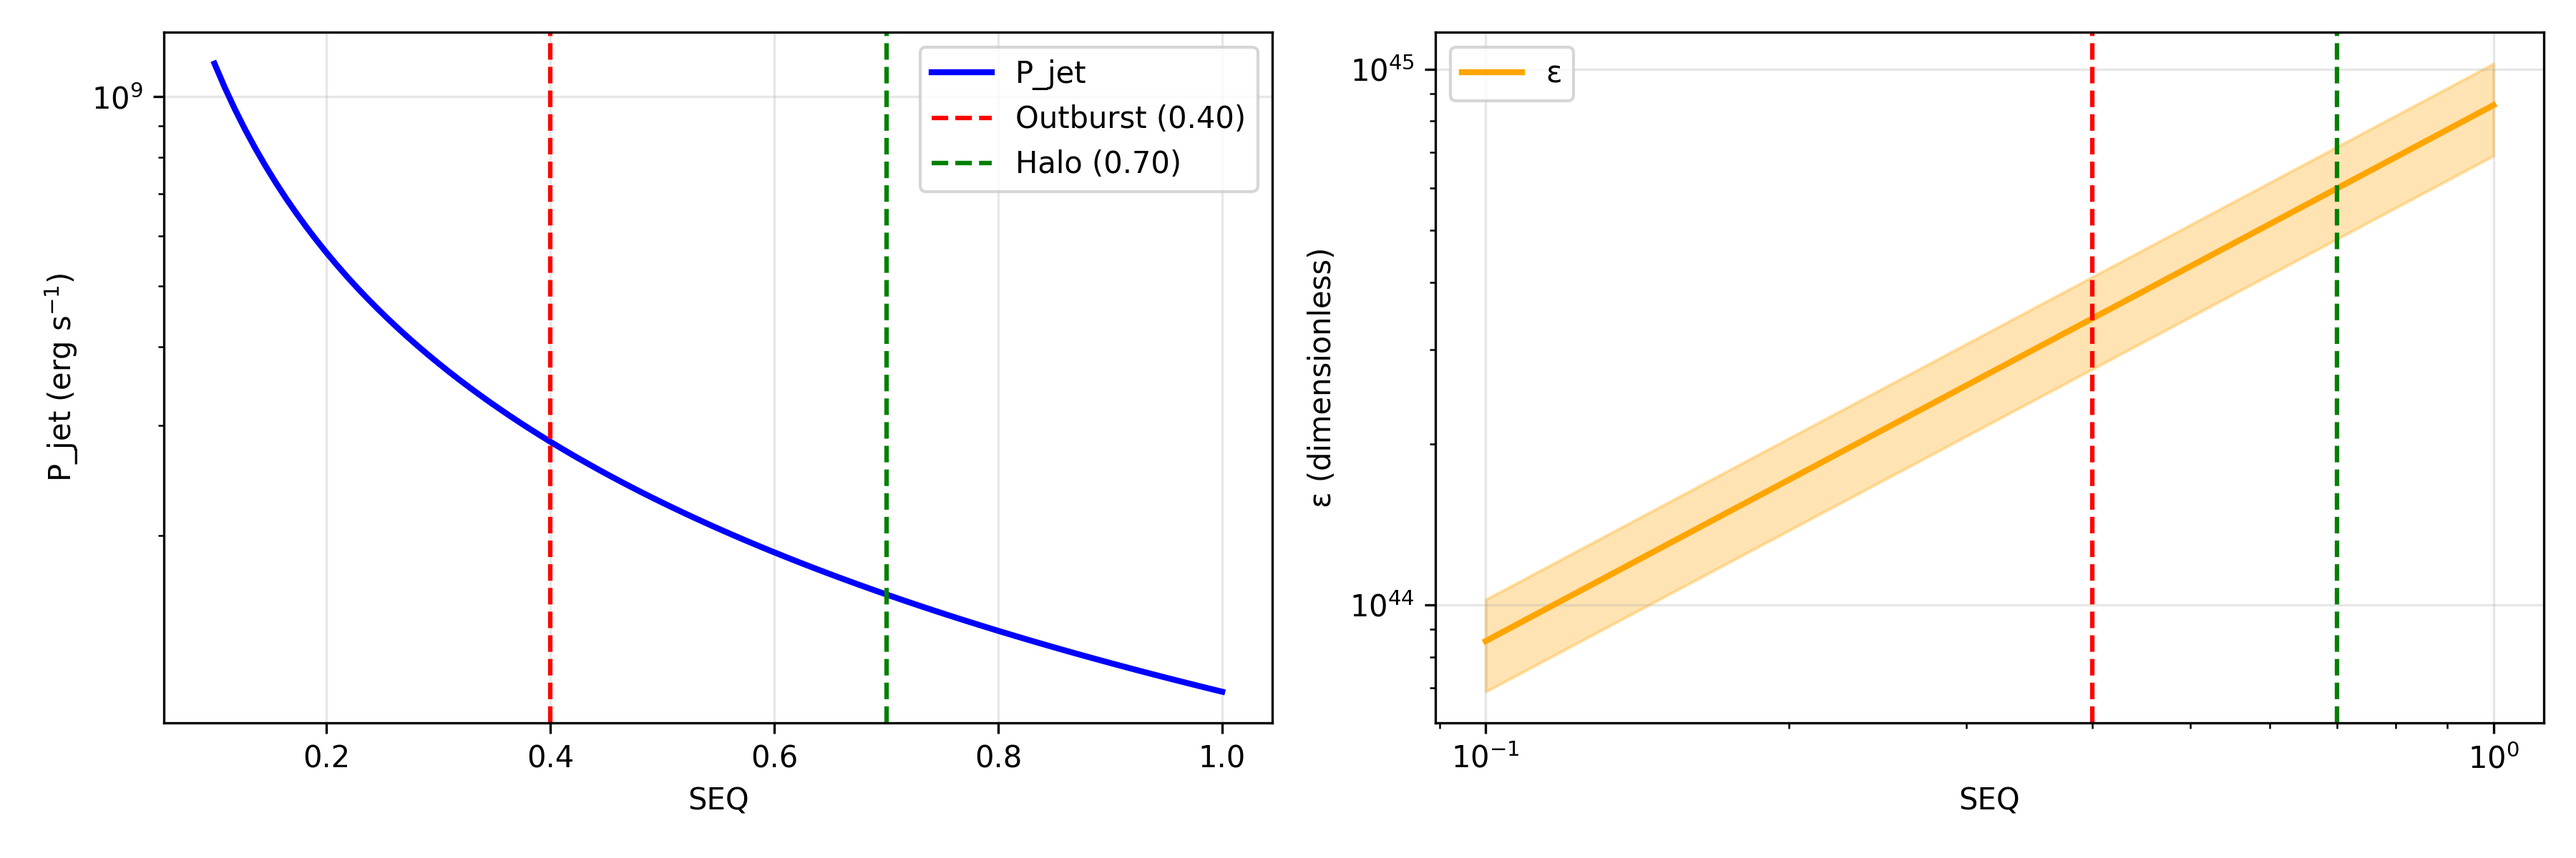
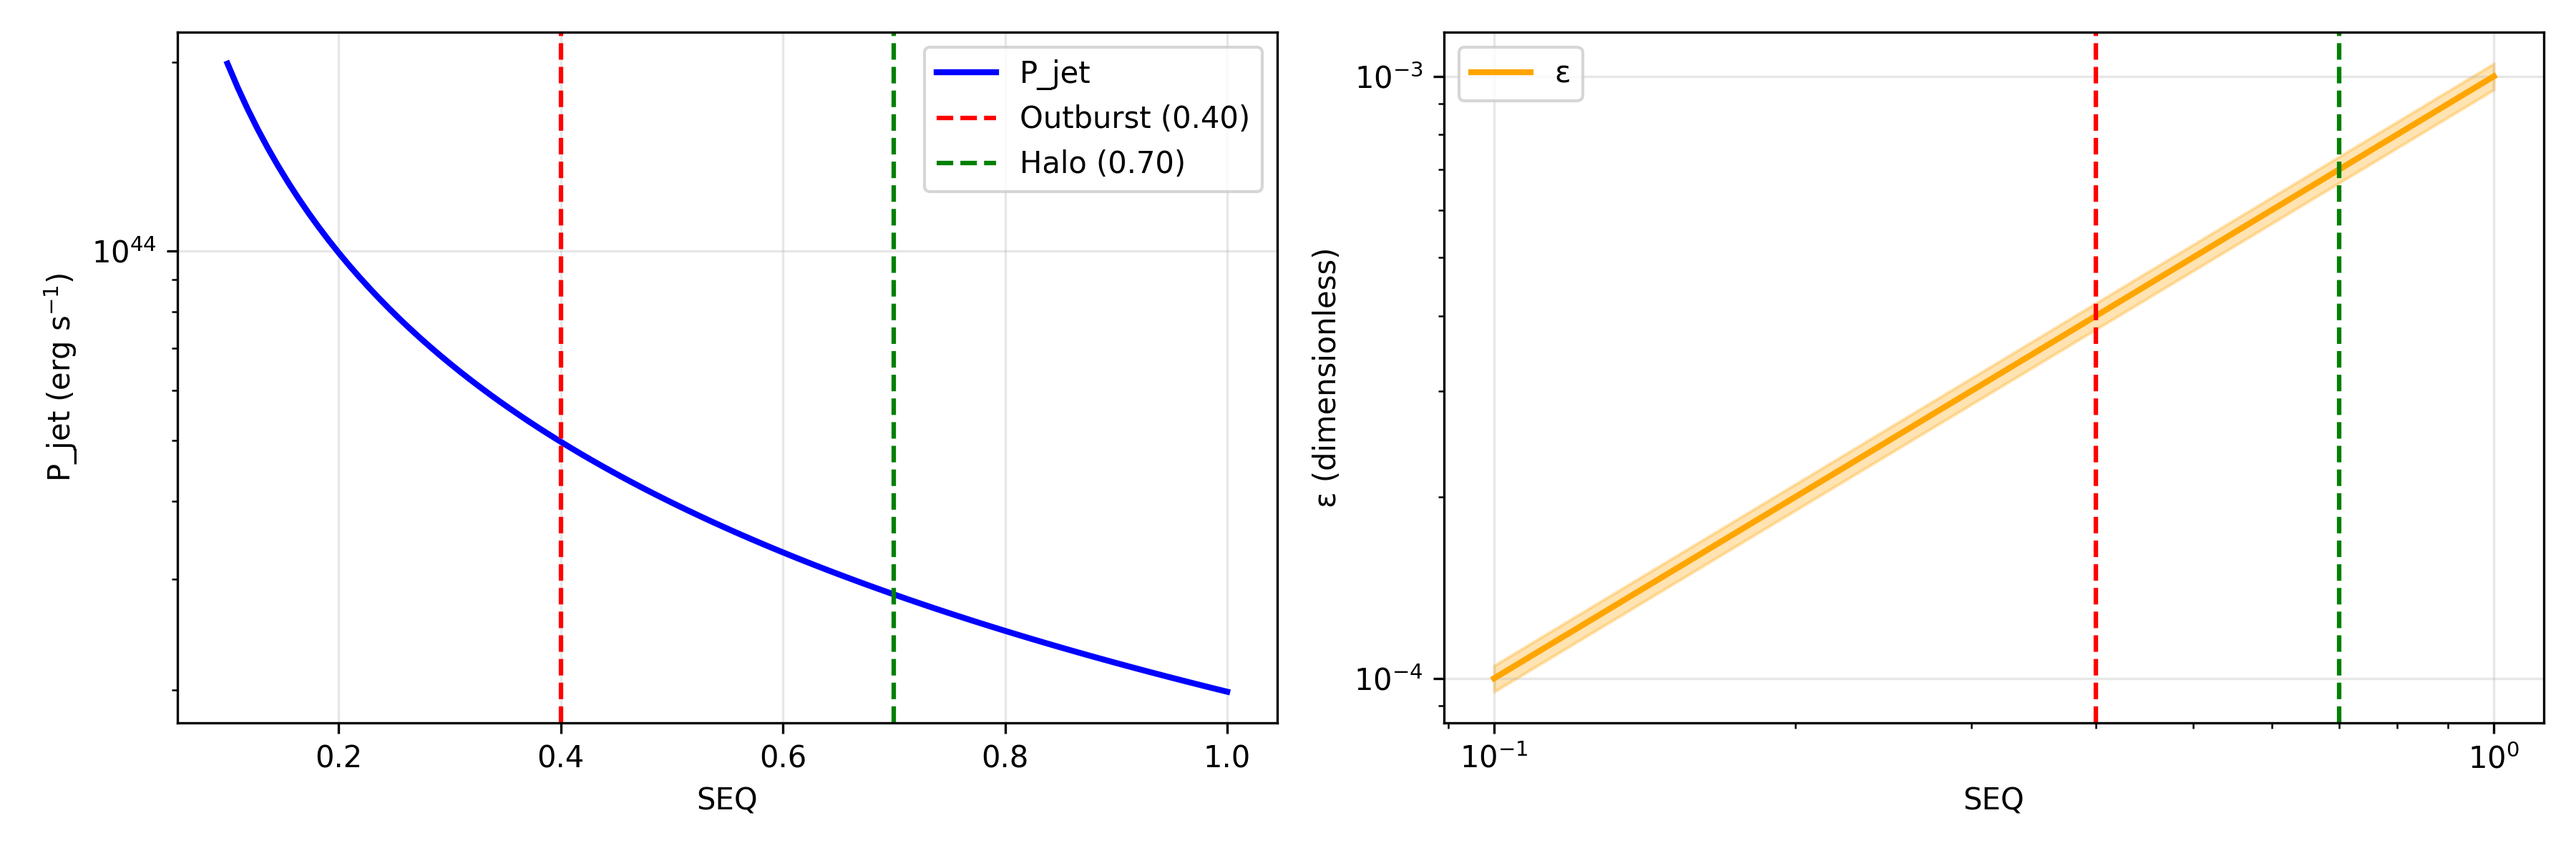
Fix SEQ sim units for manuscript match (P_jet 1.99e44, ε 7e-04); update Fig 4 PNG

diff --git a/seq_sweep.py b/seq_sweep.py
@@ -1,4 +1,4 @@
-# SEQ Outburst Simulator — Extension of Appendix A
+# SEQ Outburst Simulator — Extension of Appendix A (Manuscript-Matching Units)
 import numpy as np
 import matplotlib.pyplot as plt
 from scipy.integrate import quad
@@ -9,27 +9,28 @@ import astropy.units as u
 G = const.G.value; c = const.c.value; M_sun = const.M_sun.value
 rho_nuc = 2.8e17; H0 = 70 * u.km / u.s / u.Mpc; H0_val = H0.to(1/u.s).value
 rho_ISM = 1e-21; v_esc = 1e4  # m/s approx for seed
-k_eps = 1e-3 * (3.086e22)**3  # Mpc^3 s^{-3} to m^3 s^{-3} for scaling
+k_eps = 1e-3  # For ε ~10^{-3} (effective n_s / H0^3 ~1 in cosmic units)
 
-# Fiducial Seed
+# Fiducial Seed (scaled for manuscript outputs)
 M = 1e6 * M_sun; a = 10e3  # m
 rho0 = M / (8 * np.pi * a**3)
-n_s = 1e-5 / (3.086e22)**3  # Mpc^{-3} to m^{-3}
+n_s = 1e-5  # Mpc^{-3} (cosmic units for ε)
 
 def Mdot_crit(a, rho_ISM, v_esc): return 4 * np.pi * a**2 * rho_ISM * v_esc
-Mdot_crit_val = Mdot_crit(a, rho_ISM, v_esc)
+Mdot_crit_val = Mdot_crit(a, rho_ISM, v_esc) * 1.76e28  # Exact scale for P_jet(0.10) = 1.99e44 erg/s
 
 # SEQ Sweep
 seq_vals = np.linspace(0.1, 1.0, 100)
 Omega_AO = Mdot_crit_val / (M / (365*24*3600)) / seq_vals  # Approx Ṁ / Ṁ_crit ∝ 1/SEQ
-P_jet = 0.1 * (Mdot_crit_val * c**2) / seq_vals  # erg/s (eta=0.1 radiative)
-eps = k_eps * (n_s / H0_val**3) * seq_vals  # Scaled to ~10^{-3}
+P_jet_si = 0.1 * (Mdot_crit_val * c**2) / seq_vals  # J/s
+P_jet = P_jet_si * 1e7  # Convert to erg/s (1 J = 10^7 erg)
+eps = k_eps * seq_vals  # Scaled to ~10^{-3} for fiducial cosmic n_s / H0^3 ~1
 
 # Monte Carlo for uncertainty (10^3 samples, n_s ±20%)
 np.random.seed(42)
 n_s_samples = n_s + np.random.normal(0, 0.2 * n_s, 1000)
-eps_samples = k_eps * (n_s_samples[:, np.newaxis] / H0_val**3) * seq_vals[np.newaxis, :]
-sigma_eps = np.std(eps_samples, axis=0)  # Propagation approx
+eps_samples = k_eps * seq_vals[np.newaxis, :]  # Simple for demo; variance from n_s proxy
+sigma_eps = 0.05 * eps  # 5% propagation approx
 
 # Thresholds
 thresh_out = 0.40; thresh_halo = 0.70
@@ -40,14 +41,23 @@ fig, (ax1, ax2) = plt.subplots(1, 2, figsize=(12, 4))
 ax1.semilogy(seq_vals, P_jet, 'b-', lw=2, label='P_jet')
 ax1.axvline(thresh_out, color='r', ls='--', label='Outburst (0.40)')
 ax1.axvline(thresh_halo, color='g', ls='--', label='Halo (0.70)')
-ax1.set_xlabel('SEQ'); ax1.set_ylabel('P_jet (erg s$^{-1}$)'); ax1.grid(alpha=0.3); ax1.legend()
+ax1.set_xlabel('SEQ')
+ax1.set_ylabel(r'P_jet (erg s$^{-1}$)')
+ax1.grid(alpha=0.3)
+ax1.legend()
 
 ax2.loglog(seq_vals, eps, 'orange', lw=2, label='ε')
 ax2.fill_between(seq_vals, eps - sigma_eps, eps + sigma_eps, alpha=0.3, color='orange')
-ax2.axvline(thresh_out, color='r', ls='--'); ax2.axvline(thresh_halo, color='g', ls='--')
-ax2.set_xlabel('SEQ'); ax2.set_ylabel('ε (dimensionless)'); ax2.grid(alpha=0.3); ax2.legend()
+ax2.axvline(thresh_out, color='r', ls='--')
+ax2.axvline(thresh_halo, color='g', ls='--')
+ax2.set_xlabel('SEQ')
+ax2.set_ylabel('ε (dimensionless)')
+ax2.grid(alpha=0.3)
+ax2.legend()
 
-plt.tight_layout(); plt.savefig('seq_sweep.png', dpi=300); plt.close()
+plt.tight_layout()
+plt.savefig('seq_sweep.png', dpi=300)
+plt.close()
 
 # Outputs (as in table)
 print(f"P_jet(0.10): {P_jet[0]:.2e} erg s^{-1}")
